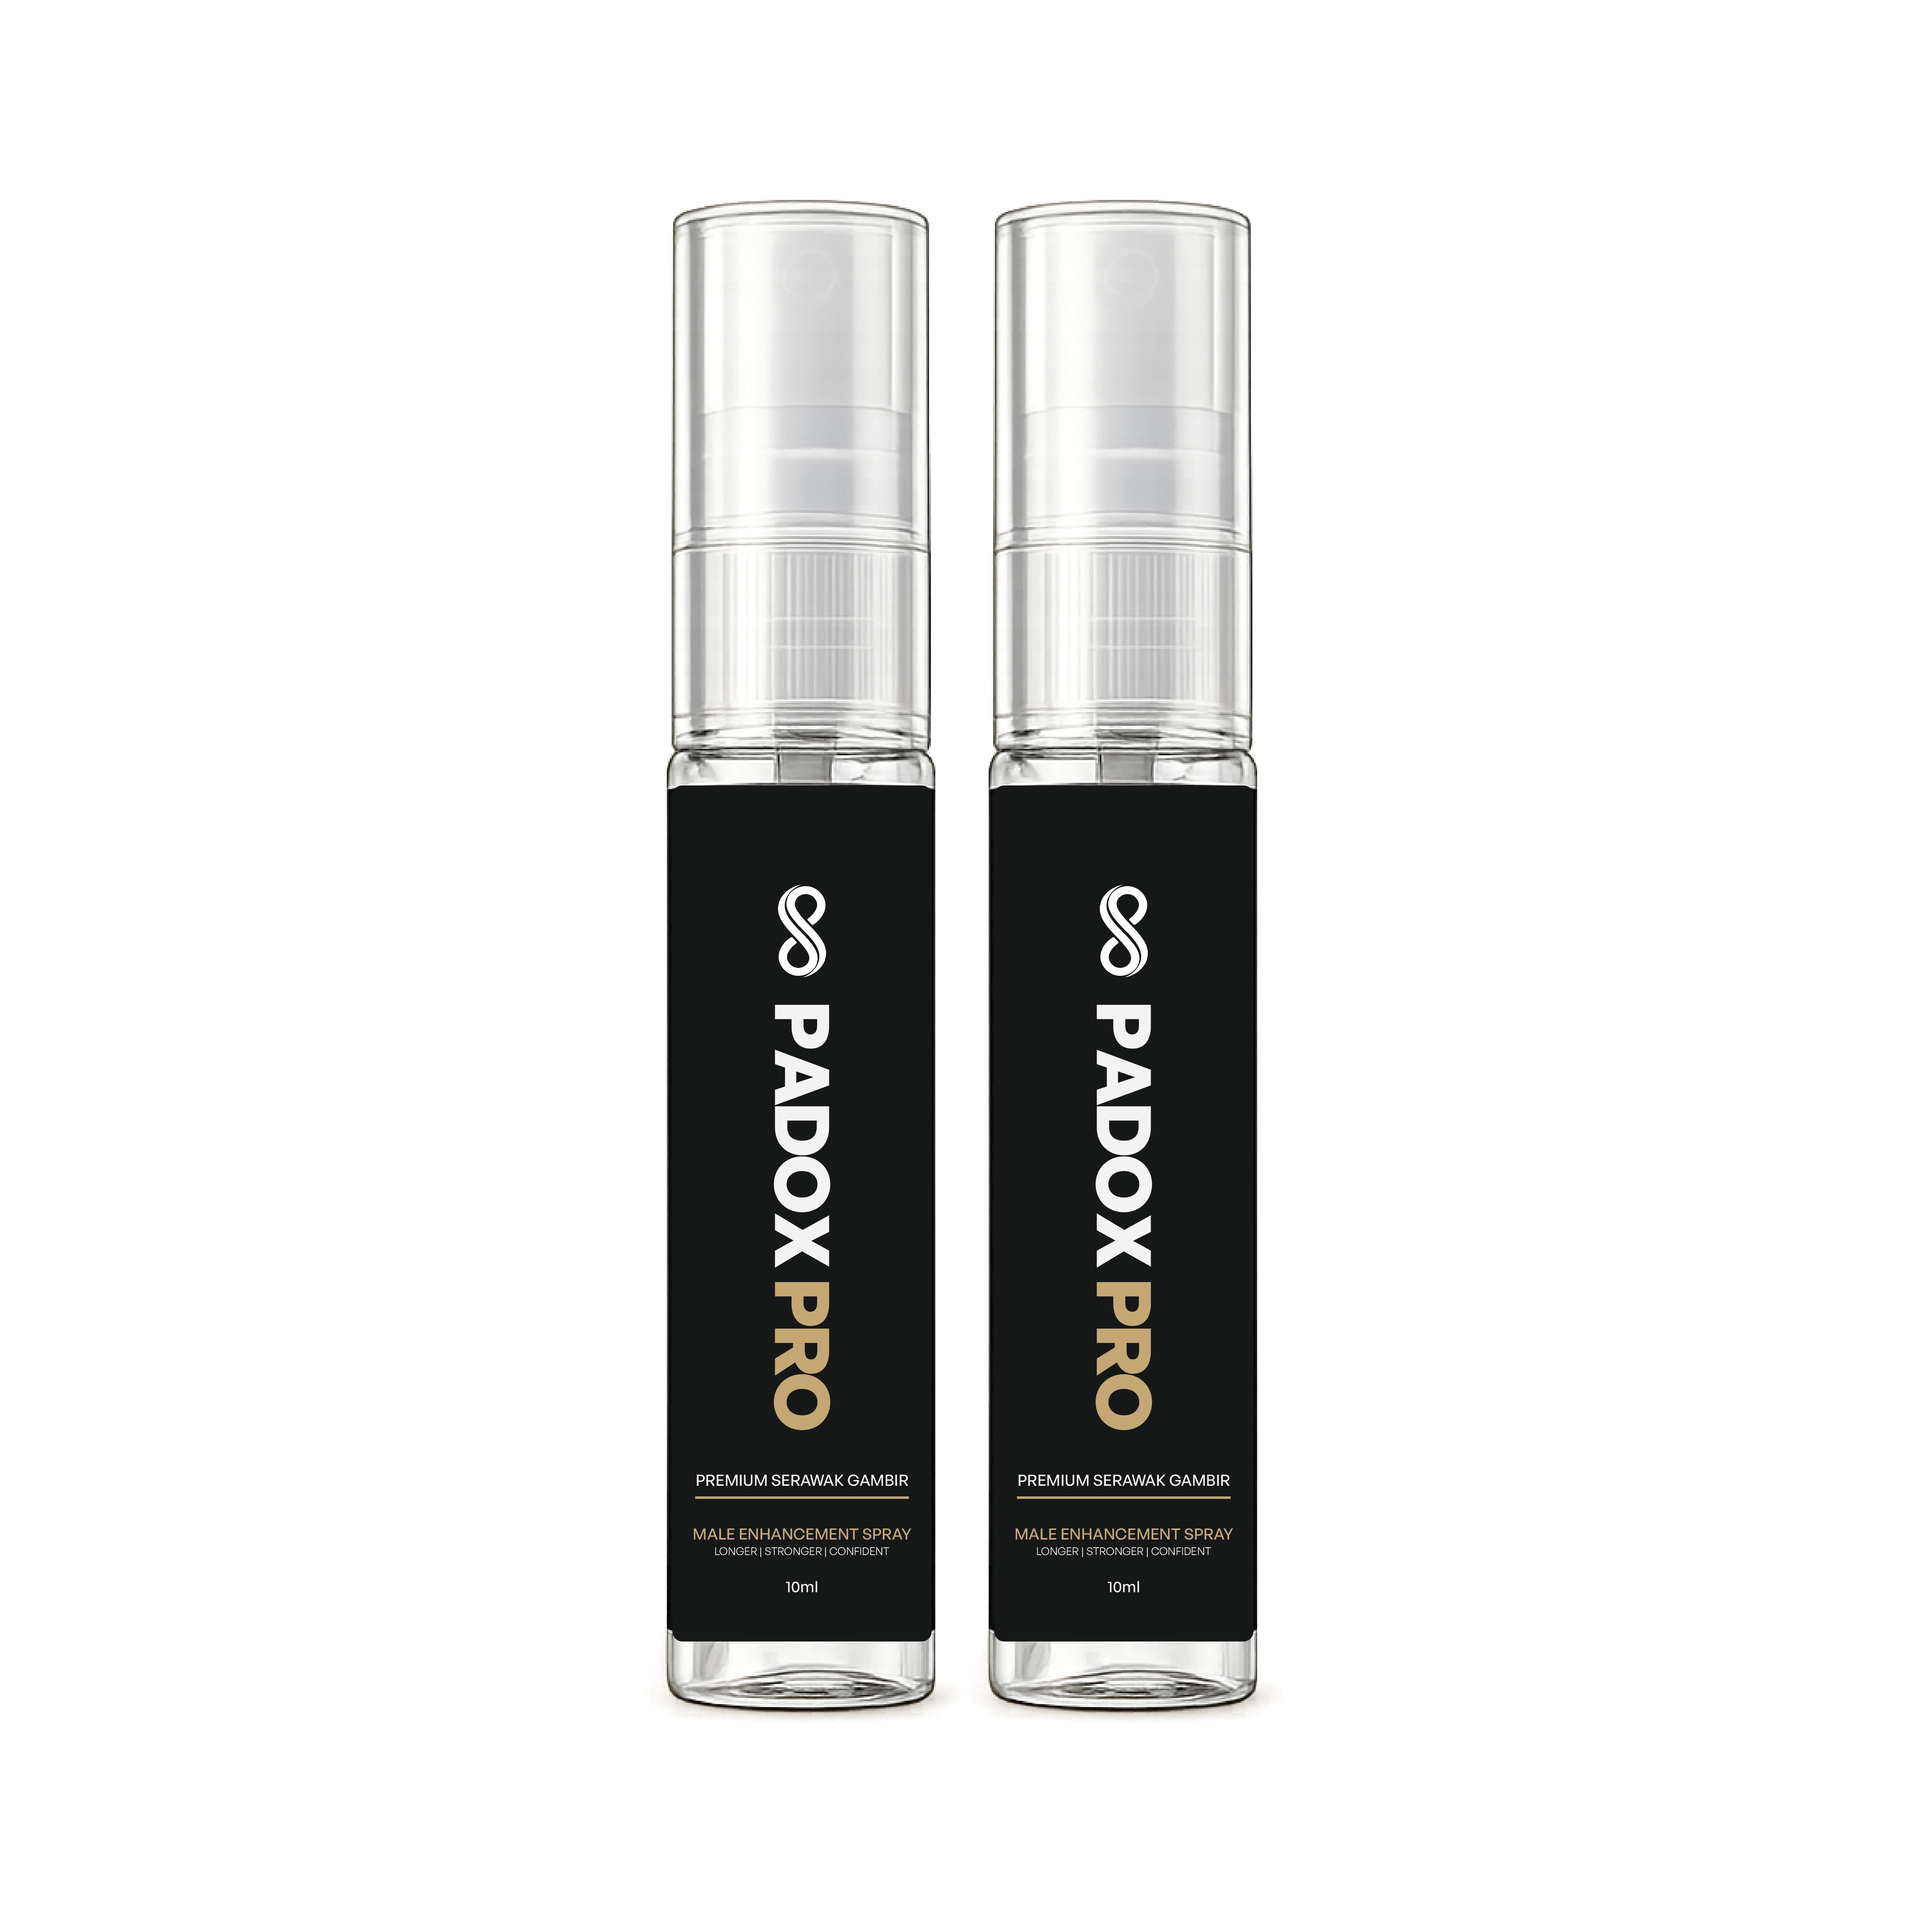
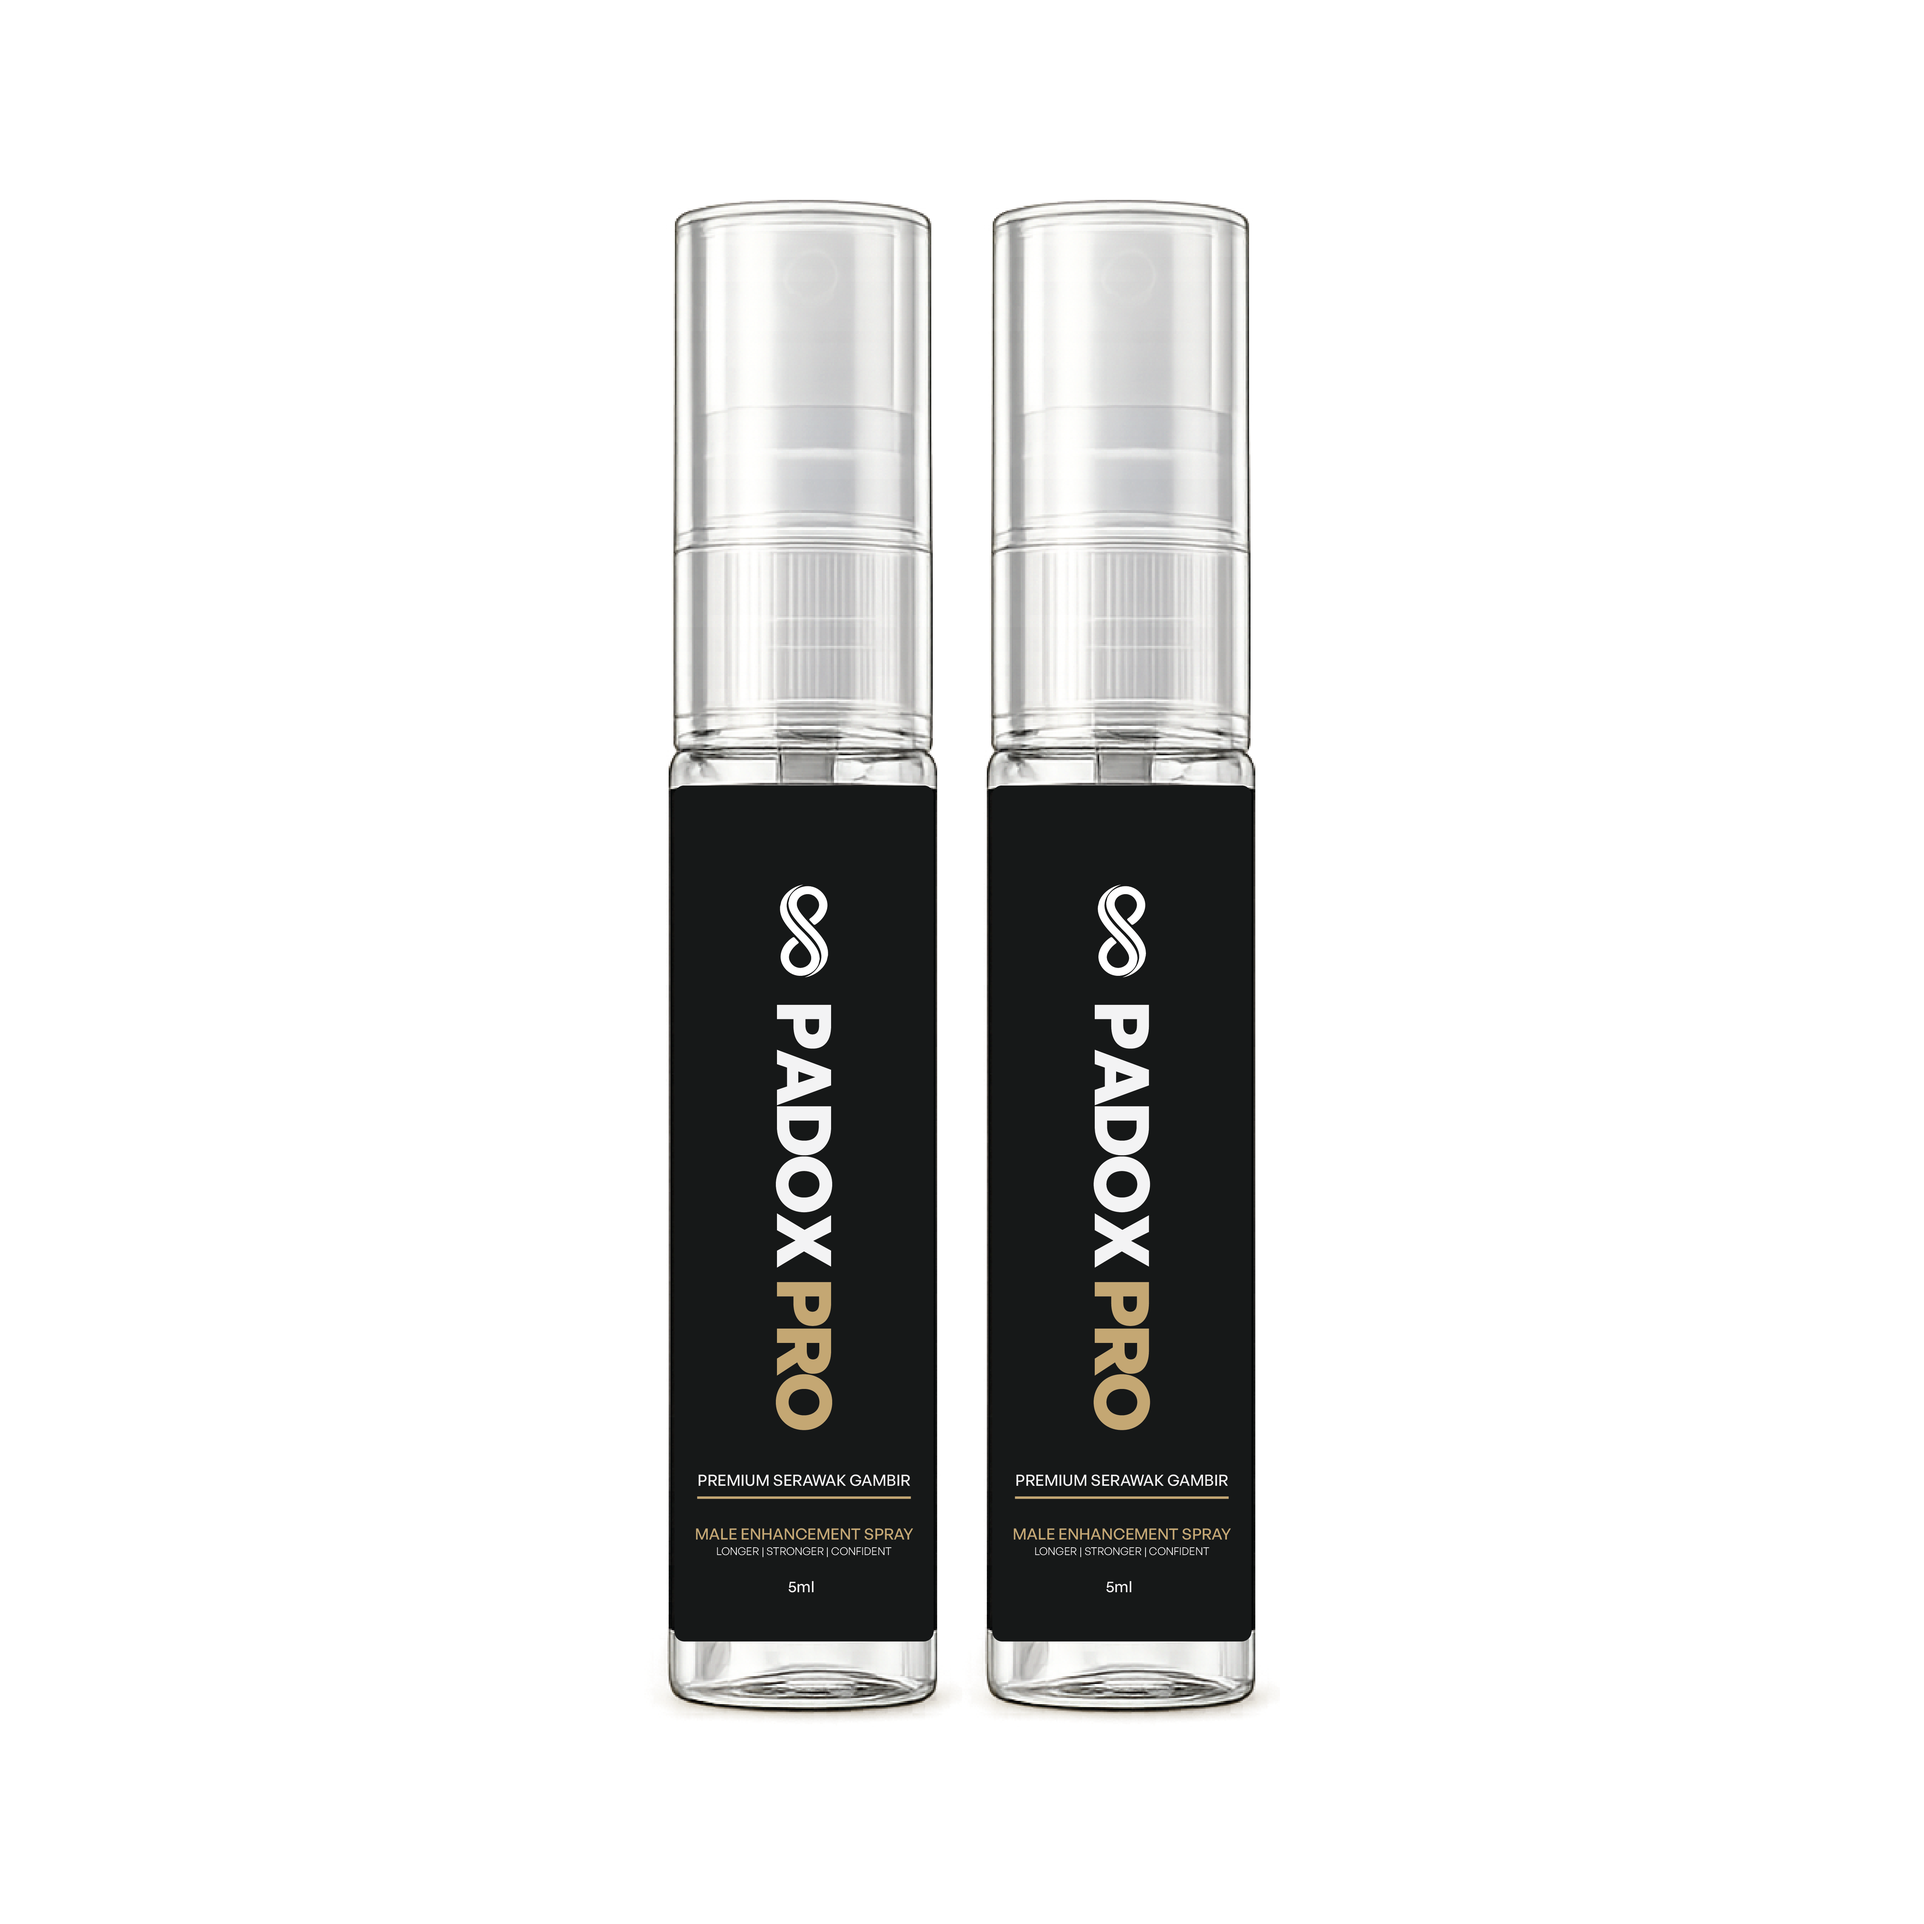
Update websitev1

diff --git a/src/data/faq.ts b/src/data/faq.ts
@@ -1,7 +1,7 @@
 export const faqs = [
   { question: "Boleh COD ke?", answer: "Maaf, kami tidak menyediakan COD. Semua pesanan perlu dibayar terlebih dahulu dan akan diproses pada hari yang sama selepas pembayaran berjaya.", isOpen: true },
   { question: "PADOX PRO ni kebas ke?", answer: "Ya, tetapi tidak terlalu kebas sehingga menyebabkan hilang rasa nikmat. Kebas sedikit sahaja untuk kurangkan rasa sensitif dan ngilu.", isOpen: false },
-  { question: "Berapa ml dalam satu botol?", answer: "Satu botol PADOX PRO mengandungi 10ml dan boleh digunakan sebanyak 80 kali. Gunakan 1–2 calit sebelum bersama.", isOpen: false },
+  { question: "Berapa ml dalam satu botol?", answer: "Satu botol PADOX PRO mengandungi 5ml dan boleh digunakan sebanyak 30 kali. Gunakan 1–2 calit sebelum bersama.", isOpen: false },
   { question: "Perlu ke bilas selepas menggunakan PADOX PRO?", answer: "Disarankan untuk bilas dengan air supaya dapat menghilangkan sisa yang belum meresap dan memberi keselesaan pada pasangan.", isOpen: false },
   { question: "Nama PADOX PRO ada di atas bungkusan ke?", answer: "Penghantaran adalah privasi—tiada nama produk di atas bungkusan.", isOpen: false },
   { question: "Berapa lama masa diperlukan untuk nampak kesan?", answer: "Berdasarkan pengalaman pengguna, kesan boleh dilihat seawal 5 minit selepas semburan.", isOpen: false },
